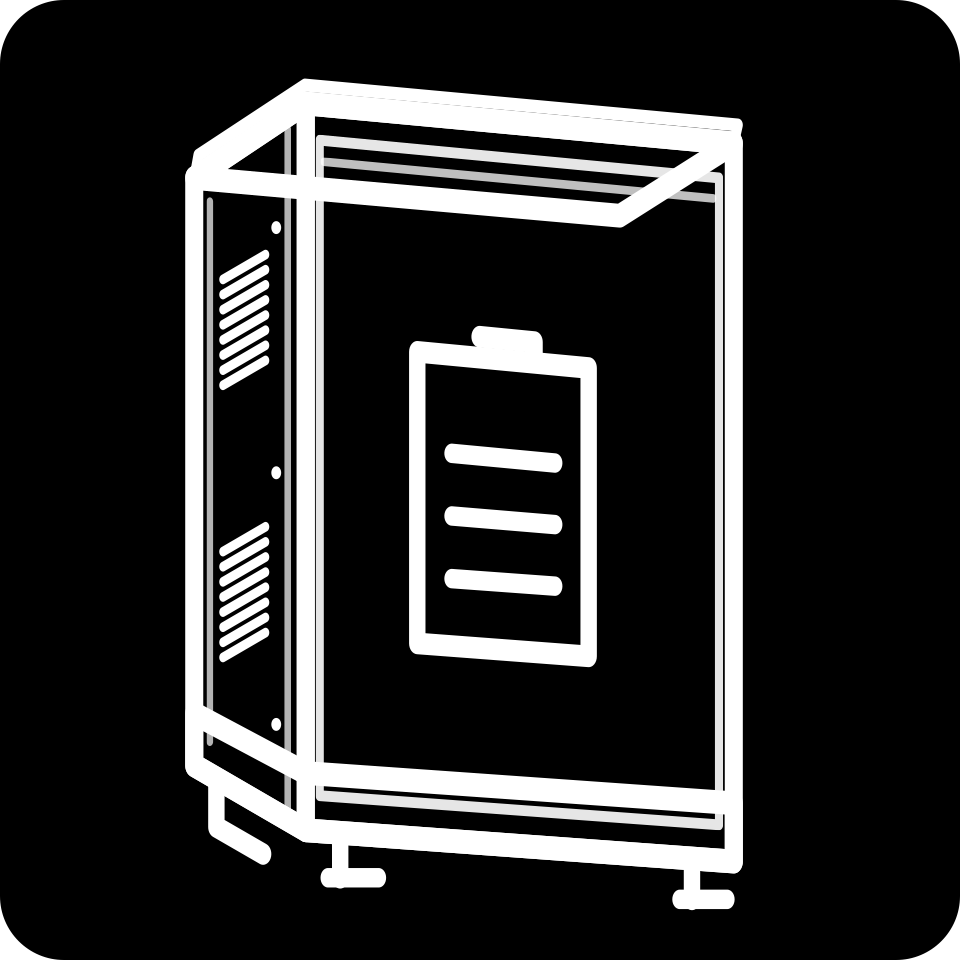
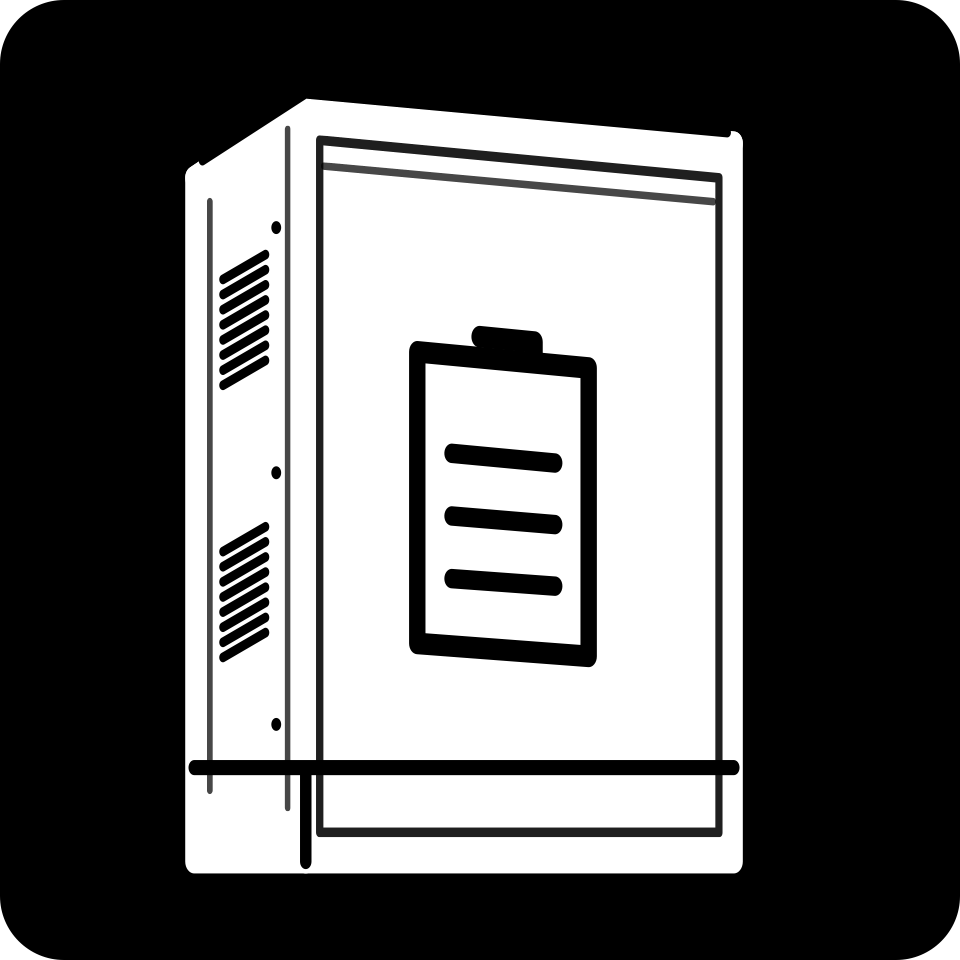
Release Pixii Home v0.6.5
Update Pixii artwork and map charged and discharged battery energy counters for Homey.

diff --git a/lib/pixii-mapping.js b/lib/pixii-mapping.js
@@ -9,7 +9,8 @@ const mappings = {
   },
   energy: {
     batt_soc_kwh: 'pixii_battery_energy',
-    ess_kwh_imp: 'meter_power'
+    ess_kwh_imp: 'meter_power',
+    ess_kwh_exp: { capability: 'meter_power.exported', transform: Math.abs }
   },
   meter: {
     building_ac_w: 'pixii_house_power',
@@ -23,7 +24,12 @@ function mapPayload(topic, payload) {
   const mapping = mappings[type] || {};
   return Object.entries(mapping)
     .filter(([field]) => payload[field] !== undefined && payload[field] !== null)
-    .map(([field, capability]) => ({ capability, value: Number(payload[field]) }));
+    .map(([field, target]) => {
+      const capability = typeof target === 'string' ? target : target.capability;
+      const rawValue = Number(payload[field]);
+      const value = typeof target === 'string' ? rawValue : target.transform(rawValue);
+      return { capability, value };
+    });
 }
 
 module.exports = { mapPayload };

diff --git a/test/mapping.test.js b/test/mapping.test.js
@@ -16,3 +16,13 @@ test('maps meter telemetry', () => {
     { capability: 'pixii_grid_power', value: -500 }
   ]);
 });
+
+test('maps Pixii charged and discharged energy counters for Homey', () => {
+  assert.deepEqual(mapPayload('pixii/status/242001002284/energy', {
+    ess_kwh_imp: 1775.45,
+    ess_kwh_exp: -1446.95
+  }), [
+    { capability: 'meter_power', value: 1775.45 },
+    { capability: 'meter_power.exported', value: 1446.95 }
+  ]);
+});

diff --git a/drivers/pixii-home/device.js b/drivers/pixii-home/device.js
@@ -25,7 +25,7 @@ class PixiiHomeDevice extends Homey.Device {
   }
 
   async ensureCapabilities() {
-    for (const capability of ['pixii_service_text', 'pixii_service_details', 'pixii_system_status_text', 'pixii_system_status_details', 'pixii_system_events']) {
+    for (const capability of ['meter_power.exported', 'pixii_service_text', 'pixii_service_details', 'pixii_system_status_text', 'pixii_system_status_details', 'pixii_system_events']) {
       if (!this.hasCapability(capability)) await this.addCapability(capability).catch(this.error);
     }
     for (const capability of ['pixii_service', 'pixii_system_status']) {